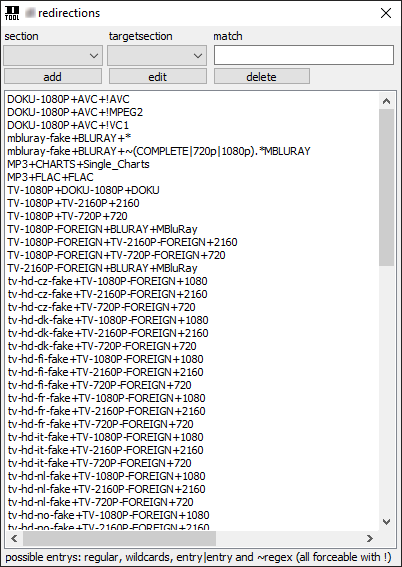
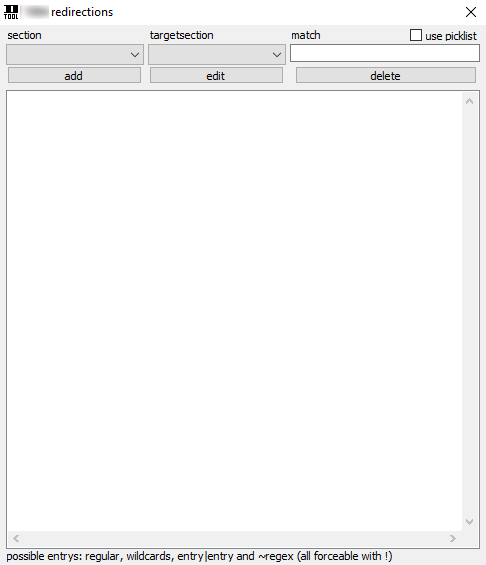
v9.7.4

Changed region(s): [[0.0, 0.0, 1.0, 1.0]]

diff --git a/SiteSetup.html b/SiteSetup.html
@@ -232,9 +232,10 @@ Eintragen was vor dem Request steht.      </p>
         Hiermit kann man bestimmte Releases von der Eigentlichen in 
 andere Sektionen lenken, wenn ein bestimmtes "match" im Release 
 vorkommt.<br>
-        So kann man zB. SPORT eintragen, und alles, was als Sport angegeben wurde (/dteditsport),<br>
-        wird dann in die Sport Sektion geschoben.<br>
-        Dazu noch ein Wort oder Zeichen in dem jeweiligem Release angeben auf das reagiert wird als "match"</p>
+        So kann man zB. SPORT eintragen, und alles, was als Sport angegeben wurde (/dtss), wird dann in die Sport Sektion geschoben. 
+        Dazu noch ein Wort oder Zeichen in dem jeweiligem Release angeben, auf das reagiert wird, als "match".<br />
+        Durch aktivieren von &quot;use picklist&quot; interagiert die Picklist mit dem Redirections Dialog und nicht mehr mit den Rules
+      </p>
       <p class="normalschrift"><strong>Incompletes</strong><br>
         Einfach anhaken und der Incfiller ist aktiv. Per Rechtsklickmenü kann man einstellen, ob
  das Land berücksichtigt  und ob das Announce im Infofenster 
@@ -256,7 +257,6 @@ Ja nachdem wie hoch die Anzahl der Sites ist bzw. wie beschäftigt der FTP Clien
       <br />
       <br />
       </p>
-      <p class="normalschrift">&nbsp;</p>
       <p class="normalschrift">        <br>
         <strong>Rules</strong></p>
       <p class="normalschrift"><strong>Black- und Whitelist</strong><br>
@@ -271,8 +271,8 @@ Affils am besten mit Strich eintragen (-GRouP). Wenn man auch andere
 Groups neben den Affils eintragen will um diese auszuschliessen, dann 
 diese ohne Strich schreiben. So werden die Affils beim 
 "/dtaffils"-command richtig angezeigt.<br />
-Affils werden bei Pre Announce der Site auch automatisch hinzugefügt.<br />
-Falls man etwas geändert hat an den Affils, kann man die Liste auch per sync-Button
+Affils werden bei Pre Announce der Site  automatisch hinzugefügt, ebenso in cbftp gesynct falls aktiv.<br />
+Falls man etwas geändert hat an den Affils, kann man die Liste  manuell per sync-Button
 mit cbftp syncen.<br />
 <br />
 Beispiele für mögliche Einträge in den Rules und auch den globalen Listen siehe <a href="https://d-tool.github.io/SiteRules.html" class="link-normal">hier</a>      oder über den Button &quot;?&quot; direkt in mIRC.<br />
@@ -326,12 +326,19 @@ Eingabefeld stand, doppelt klicken), und entsprechend editieren, dann in
     <p><br />
       <img src="SiteSetup-Dateien/menu-sections.png" width="365" height="567"><br />
       <br />
-      <img src="SiteSetup-Dateien/menu-imdb.png" width="332" height="292"><br />
+      <img src="SiteSetup-Dateien/menu-imdb.png" width="332" height="292"></p>
+    <p>&nbsp;</p>
+    <p>&nbsp;</p>
+    <p><br />
     </p>
-    <p><img src="SiteSetup-Dateien/menu-redirections.png" width="402" height="567"><br />
-</p>
+    <p><img src="SiteSetup-Dateien/menu-redirections.png" width="486" height="565"></p>
+    <p>&nbsp;</p>
+    <p>&nbsp;</p>
+    <p><br />
+    </p>
     <p><img src="SiteSetup-Dateien/menu-rules.png" width="447" height="567"><br />
 </p>
+    <p>&nbsp;</p>
     <p>&nbsp;</p>
     <p><img src="SiteSetup-Dateien/menu-picklist.png" width="225" height="567"></p></td>
   </tr>

diff --git a/Windows.html b/Windows.html
@@ -130,7 +130,7 @@ body {
         <br />
         <strong>d-tool</strong><br>
         Hier werden Infos, Raw-Befehle oder Suchergebnisse angezeigt, es ist sozusagen die Kommandozentrale. <br />
-        Es gibt auch verschiedene <a href="Hotlinks.html" class="link-normal">Hotlinks</a> die hier möglich sind, wie zB. das Einstellen von Sources/Targets oder automatischer Download.<br>
+        Es gibt auch verschiedene <a href="Hotlinks.html" class="link-normal">Hotlinks</a> die hier möglich sind, wie zB. das Einstellen von Sources/Targets in cbftp oder automatischer Download.<br>
         <br>
         <strong>d-tool_at</strong><br>
         Zeigt die Autotrades an. Affils werden gesondert angezeigt. <br />

diff --git a/index.html b/index.html
@@ -143,7 +143,7 @@ body {
       <span class="KleinerText"><a href="https://d--tool-github-io.translate.goog/index.html?_x_tr_sl=de&amp;_x_tr_tl=en&amp;_x_tr_hl=de&amp;_x_tr_pto=wapp" class="helpdesk1"><span class="link-nodecoration-grey-10px"><br />
         <br />
         translate me</span></a></span></p></td>
-    <td width="228" valign="top"><p class="mini_text"><a href="Latest.html" class="link-normal">dt.v.9.6.4</a><br />
+    <td width="228" valign="top"><p class="mini_text"><a href="Latest.html" class="link-normal">dt.v.9.7.4</a><br />
         <br />
         <br />
       </p></td>
